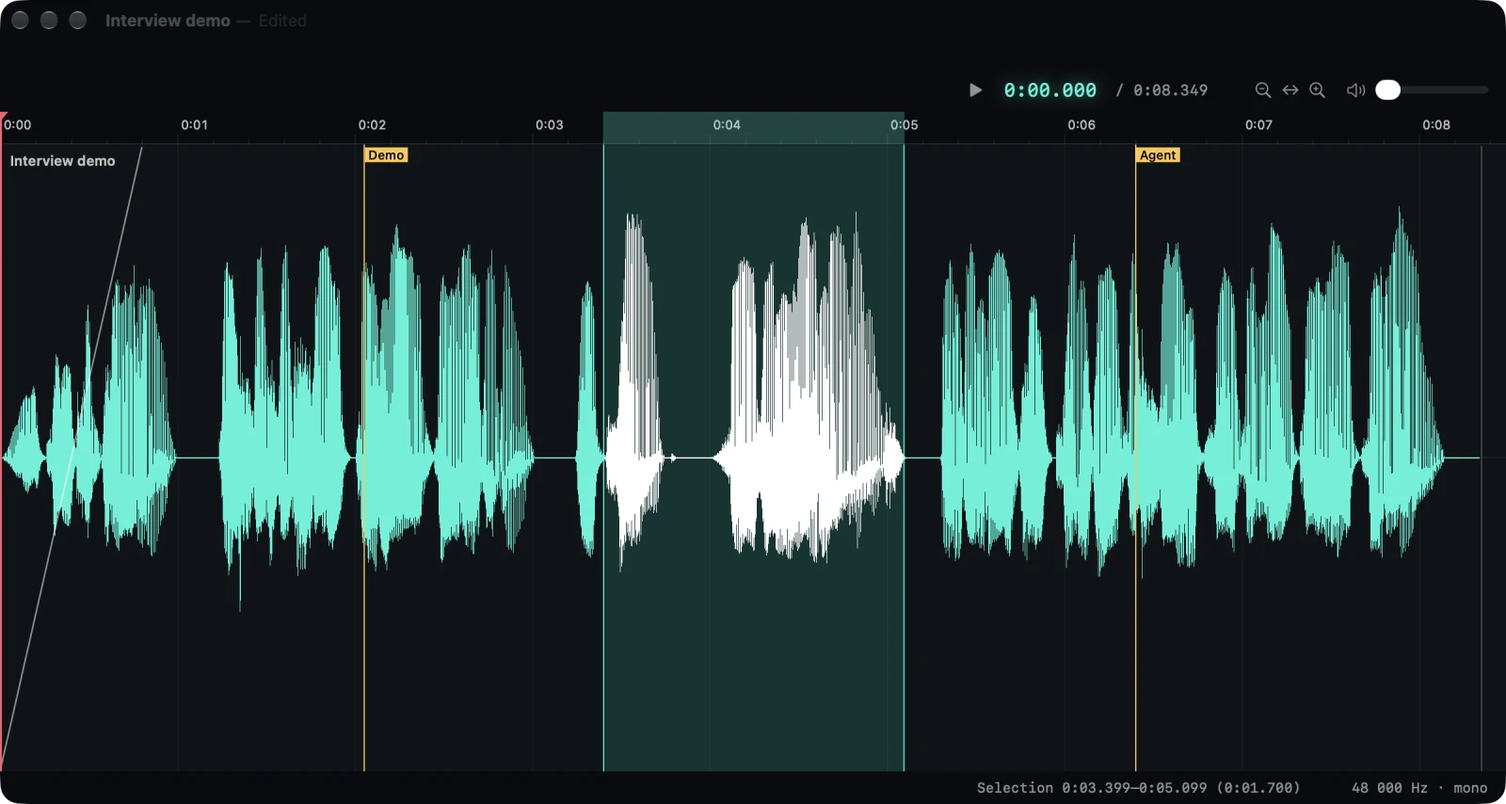
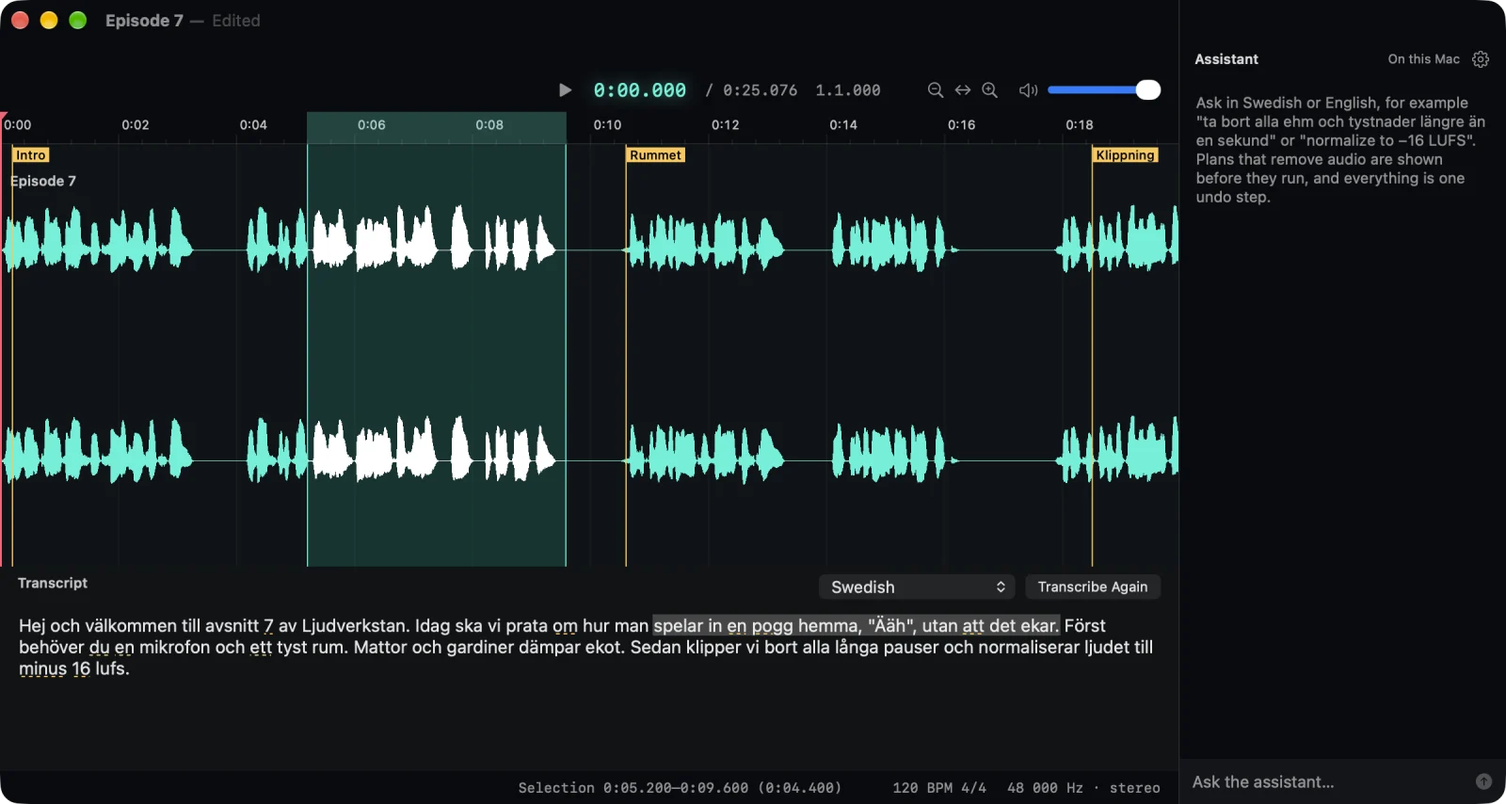
Site brought up to date; offline proof; fixes the screenshots exposed
Site: FAQ and app.json rewritten for what the app does now (twelve
features, models and sizes, offline, why no HTDemucs, VoiceOver), eleven
new screenshots placed in the manual, shortcut and settings chapters
corrected, noise reduction documented (it was still "planned").
scripts/winshot captures only Jämmer's windows with ScreenCaptureKit.
The site builds with --strict and no warnings.

Offline: scripts/no-network.sb runs the app in a sandbox that blocks
every connection off the Mac (JAMMER_WRAP in with-app.sh). Verified
there: cold start 2 s, open, edit, de-hum and DeepFilterNet, Apple,
KB-Whisper and Parakeet transcription, speaker model, export in all
seven formats, the on-device assistant's plan, the agent API. A model
download fails at once with a message that now says what to do; the
OpenRouter request times out after 30 s.

Fixes found on the way: Parakeet put a whole source's text into one
word (its tokens mark words with a leading space, not the SentencePiece
mark the test used), so words, speakers and deleting by word didn't
work with it; bleed words right at a turn's edge still showed in
multitrack transcripts; the export dialog said chapters were MP3-only
and now remembers the format; track names sat under marker flags;
restore jobs for noise reduction had no title; Settings no longer
prints the models folder (Show in Finder instead).

diff --git a/scripts/winshot/main.swift b/scripts/winshot/main.swift
@@ -1,0 +1,48 @@
+// Captures only one app's windows (ScreenCaptureKit), never the desktop, for site screenshots.
+//   winshot --pid P [--only "Title prefix"] out.png
+// Without --only: every on-screen window of the app, cropped to their union. With --only:
+// windows whose title starts with the prefix, plus untitled ones (sheets, popovers) that
+// overlap them.
+import AppKit
+import ScreenCaptureKit
+
+var pid: pid_t = 0, only: String?, out = ""
+var args = Array(CommandLine.arguments.dropFirst())
+while !args.isEmpty {
+    let a = args.removeFirst()
+    if a == "--pid" { pid = pid_t(args.removeFirst()) ?? 0 } else if a == "--only" { only = args.removeFirst() } else { out = a }
+}
+guard pid != 0, !out.isEmpty else { FileHandle.standardError.write(Data("usage: winshot --pid P [--only prefix] out.png\n".utf8)); exit(2) }
+
+let sem = DispatchSemaphore(value: 0)
+Task {
+    do {
+        let content = try await SCShareableContent.excludingDesktopWindows(false, onScreenWindowsOnly: true)
+        var windows = content.windows.filter { $0.owningApplication?.processID == pid && $0.windowLayer == 0 && $0.frame.width > 40 && $0.frame.height > 40 }
+        if let only {
+            let main = windows.filter { ($0.title ?? "").hasPrefix(only) }
+            let frame = main.reduce(CGRect.null) { $0.union($1.frame) }
+            windows = main + windows.filter { ($0.title ?? "").isEmpty && $0.frame.intersects(frame) }
+        }
+        guard !windows.isEmpty, let display = content.displays.first(where: { $0.frame.intersects(windows[0].frame) }) ?? content.displays.first else {
+            FileHandle.standardError.write(Data("winshot: no matching windows\n".utf8)); exit(1)
+        }
+        let union = windows.reduce(CGRect.null) { $0.union($1.frame) }.intersection(display.frame)
+        let filter = SCContentFilter(display: display, including: windows)
+        let config = SCStreamConfiguration()
+        let scale = CGFloat(filter.pointPixelScale)
+        config.sourceRect = CGRect(x: union.minX - display.frame.minX, y: union.minY - display.frame.minY, width: union.width, height: union.height)
+        config.width = Int(union.width * scale)
+        config.height = Int(union.height * scale)
+        config.showsCursor = false
+        config.backgroundColor = .clear
+        let image = try await SCScreenshotManager.captureImage(contentFilter: filter, configuration: config)
+        let rep = NSBitmapImageRep(cgImage: image)
+        try rep.representation(using: .png, properties: [:])!.write(to: URL(fileURLWithPath: out))
+        print("\(image.width)x\(image.height) \(windows.map { $0.title ?? "" })")
+    } catch {
+        FileHandle.standardError.write(Data("winshot: \(error.localizedDescription)\n".utf8)); exit(1)
+    }
+    sem.signal()
+}
+sem.wait()

diff --git a/App/SettingsWindow.swift b/App/SettingsWindow.swift
@@ -79,7 +79,7 @@ final class ModelsModel {
                 let id = row.id
                 try await row.install { p in Task { @MainActor in self.progress[id] = p } }
             } catch {
-                errors[row.id] = error.localizedDescription
+                errors[row.id] = "The download didn't finish (\(error.localizedDescription)). Check the network and try again; everything else in Jämmer works without one."
             }
             progress[row.id] = nil
             tick += 1
@@ -98,8 +98,15 @@ struct ModelsSettings: View {
     var body: some View {
         VStack(alignment: .leading, spacing: 14) {
             Text("Models").font(.title2.bold())
-            Text("Speech models run on this Mac. Each is downloaded once, from \(SpeechEngines.store.source.host() ?? "the model source"), into \(SpeechEngines.store.folder.path).")
-                .font(.callout).foregroundStyle(.secondary).fixedSize(horizontal: false, vertical: true)
+            HStack(alignment: .firstTextBaseline) {
+                Text("Speech models run on this Mac. Each is downloaded once, from \(SpeechEngines.store.source.host() ?? "the model source"), and can be removed again.")
+                    .font(.callout).foregroundStyle(.secondary).fixedSize(horizontal: false, vertical: true)
+                Spacer()
+                Button("Show in Finder") {
+                    try? FileManager.default.createDirectory(at: SpeechEngines.store.folder, withIntermediateDirectories: true)
+                    NSWorkspace.shared.activateFileViewerSelecting([SpeechEngines.store.folder])
+                }
+            }
             ForEach(model.rows) { row in
                 HStack(alignment: .top, spacing: 12) {
                     VStack(alignment: .leading, spacing: 3) {

diff --git a/Packages/JammerKit/Tests/JammerParakeetTests/ParakeetTests.swift b/Packages/JammerKit/Tests/JammerParakeetTests/ParakeetTests.swift
@@ -16,6 +16,9 @@ struct ParakeetWordTests {
                  TokenTiming(token: ".", tokenId: 5, startTime: 0.80, endTime: 0.82, confidence: 0.99)]
         let w = ParakeetEngine.words(t, sampleRate: 48_000)
         #expect(w.map(\.text) == ["Hej", "välkommen."])
+        // FluidAudio's tokens mark a new word with a leading space.
+        let spaced = t.map { TokenTiming(token: $0.token.replacingOccurrences(of: "▁", with: " "), tokenId: $0.tokenId, startTime: $0.startTime, endTime: $0.endTime, confidence: $0.confidence) }
+        #expect(ParakeetEngine.words(spaced, sampleRate: 48_000).map(\.text) == ["Hej", "välkommen."])
         #expect(w[1].start == 19_200 && w[1].end == 39_360)
         #expect(abs((w[1].confidence ?? 0) - (0.8 + 0.6 + 0.95 + 0.99) / 4) < 1e-6)
     }
@@ -68,6 +71,8 @@ struct ParakeetBenchmark {
             wall += Double(d.components.seconds) + Double(d.components.attoseconds) / 1e18
             audio += Double(info.frames) / info.sampleRate
             timingOK = timingOK && t.words.allSatisfy { $0.start <= $0.end && $0.end <= info.frames + 4_800 }
+            // One word per spoken word, not one per sentence (give or take a few misheard joins).
+            timingOK = timingOK && abs(t.words.count - s.split(separator: " ").count) <= 3
             let hyp = t.words.map(\.text).joined(separator: " ")
             let w = WordErrorRate.compute(reference: s, hypothesis: hyp)
             if w.errors > 0 { print("BENCH  \(voice) \(rate): \"\(s)\" → \"\(hyp)\"") }

diff --git a/App/EditorWindowController.swift b/App/EditorWindowController.swift
@@ -552,7 +552,12 @@ final class ExportChoices {
         var encoding: WAVWriter.Encoding { self == .wav16 ? .int16 : (self == .wavFloat ? .float32 : .int24) }
         var fileExtension: String { encoded?.format.fileExtension ?? "wav" }
     }
-    var choice: Choice = .wav24
+    /// The format is remembered between exports.
+    var choice: Choice = UserDefaults.standard.string(forKey: "export.format").flatMap(Choice.init(rawValue:)) ?? .wav24 {
+        didSet { UserDefaults.standard.set(choice.rawValue, forKey: "export.format") }
+    }
+    /// MP3 (ID3), AAC and ALAC (a chapter track) and Opus (comments) carry chapters.
+    var takesChapters: Bool { [.mp3, .aac, .alac24, .opus].contains(choice) }
     var chapters = true
     var chaptersJSON = false
     var encoding: WAVWriter.Encoding = .int24
@@ -578,7 +583,7 @@ struct ExportAccessory: View {
                 Text("Broadcast Wave metadata and markers are kept in WAV only.").font(.caption).foregroundStyle(.secondary)
             }
             Toggle("Selection only", isOn: $model.selectionOnly).disabled(!model.hasSelection)
-            Toggle("Chapters from markers (MP3)", isOn: $model.chapters).disabled(model.choice != .mp3)
+            Toggle("Chapters from markers (MP3, M4A, Opus)", isOn: $model.chapters).disabled(!model.takesChapters)
             Toggle("Also save chapters as JSON (Podcasting 2.0)", isOn: $model.chaptersJSON)
         }
         .padding(12)

diff --git a/App/TimelineView.swift b/App/TimelineView.swift
@@ -390,7 +390,8 @@ final class TimelineOverlay: NSView {
             }
             let nameAttrs: [NSAttributedString.Key: Any] = [.font: NSFont.systemFont(ofSize: 11, weight: .semibold),
                                                             .foregroundColor: Theme.text]
-            (track.name as NSString).draw(at: NSPoint(x: 8, y: y + 6), withAttributes: nameAttrs)
+            // Below the row where marker flags sit, so a marker near the start doesn't cover it.
+            (track.name as NSString).draw(at: NSPoint(x: 8, y: y + 22), withAttributes: nameAttrs)
             if session.peaks.isEmpty, !session.peakProgress.isEmpty, session.project.length > Frame(project.sampleRate * 600) {
                 let p = session.peakProgress.values.first ?? 0
                 ("Reading waveform… \(Int(p * 100)) %" as NSString).draw(at: NSPoint(x: 8, y: y + 24), withAttributes: nameAttrs)

diff --git a/Packages/JammerKit/Sources/JammerCore/Transcript.swift b/Packages/JammerKit/Sources/JammerCore/Transcript.swift
@@ -120,9 +120,11 @@ extension Project {
         guard tracks.count > 1, !speakerTurns.isEmpty else { return words }
         let turns = placedTurns()
         guard Set(turns.map(\.track)).count > 1 else { return words }
+        // The other tracks' turns count with 0.3 s to spare: bleed words sit right at their edges.
+        let margin = Frame(0.3 * sampleRate)
         func covered(_ w: PlacedWord, on sameTrack: Bool) -> Bool {
-            let mid = (w.start + w.end) / 2
-            return turns.contains { ($0.track == w.track) == sameTrack && $0.start <= mid && mid < $0.end }
+            let mid = (w.start + w.end) / 2, m = sameTrack ? 0 : margin
+            return turns.contains { ($0.track == w.track) == sameTrack && $0.start - m <= mid && mid < $0.end + m }
         }
         return words.filter { covered($0, on: true) || !covered($0, on: false) }
     }

diff --git a/Packages/JammerKit/Sources/JammerParakeet/ParakeetEngine.swift b/Packages/JammerKit/Sources/JammerParakeet/ParakeetEngine.swift
@@ -101,12 +101,14 @@ public final class ParakeetEngine: TranscriptionEngine, @unchecked Sendable {
             confs = []
         }
         for tok in tokens {
+            // A word starts at "▁" (SentencePiece) or a leading space (how FluidAudio hands tokens over).
             let piece = tok.token
-            if piece.hasPrefix("▁") || text.isEmpty {
+            let startsWord = piece.hasPrefix("▁") || piece.hasPrefix(" ")
+            if startsWord || text.isEmpty {
                 flush()
                 start = tok.startTime
             }
-            text += piece.replacingOccurrences(of: "▁", with: piece.hasPrefix("▁") && text.isEmpty ? "" : " ")
+            text += piece.replacingOccurrences(of: "▁", with: " ")
             end = tok.endTime
             confs.append(tok.confidence)
         }

diff --git a/App/AgentServer.swift b/App/AgentServer.swift
@@ -684,7 +684,7 @@ enum AgentRouter {
 
     // MARK: Restoration
 
-    static let restoreTitles: [Restoration.Kind: String] = [.dehum: "Remove Hum", .declip: "Repair Clipping", .declick: "Remove Clicks"]
+    static let restoreTitles: [Restoration.Kind: String] = [.dehum: "Remove Hum", .declip: "Repair Clipping", .declick: "Remove Clicks", .denoise: "Reduce Noise"]
 
     /// The range (explicit, else the selection, else everything) and the tracks (nil = all).
     private static func restoreScope(_ session: EditorSession, start: Double?, end: Double?, tracks: [UUID]?) throws -> (Range<Frame>, Set<UUID>?) {

diff --git a/Packages/JammerKit/Sources/JammerAssistant/Planners.swift b/Packages/JammerKit/Sources/JammerAssistant/Planners.swift
@@ -116,6 +116,7 @@ public struct OpenRouterPlanner: AssistantPlanner {
         if let reply = PlanParser.guardrail(goal) { return AssistantPlan(reply: reply, steps: []) }
         guard let key = key(), !key.isEmpty else { throw AssistantError.noKey }
         var req = URLRequest(url: endpoint.appending(path: "chat/completions"))
+        req.timeoutInterval = 30 // offline or stalled: an error in the panel, never a hang
         req.httpMethod = "POST"
         req.setValue("Bearer \(key)", forHTTPHeaderField: "Authorization")
         req.setValue("application/json", forHTTPHeaderField: "Content-Type")

diff --git a/site/faq.md b/site/faq.md
@@ -1,6 +1,6 @@
 ## What is Jämmer?
 
-A native macOS audio editor for speech, restoration and post-production. It's the audio sibling of Glimmer (images) and Flimmer (video). Version 0.1 is the foundation: non-destructive editing, loudness measurement and normalization, WAV/AIFF with their metadata, and a local API for AI agents.
+A native macOS audio editor for speech: podcasts, interviews, voice-overs and their clean-up. You edit by cutting the waveform or by deleting words in the transcript, repair hum, clicks, clipping and noise, find and level the speakers, set the loudness for the platform and export with chapters. It's the audio sibling of Glimmer (images) and Flimmer (video), and AI agents can drive it through a local API.
 
 ## What do I need to run it?
 
@@ -12,15 +12,27 @@ Yes. Jämmer is free and open source under the MIT licence. The source code will
 
 ## Does it cost anything to use the AI features?
 
-Nothing in Jämmer costs money today: everything runs on your Mac. If paid cloud features are added later, they will use your own OpenRouter key, and an agent can only use them when it explicitly allows paid steps.
+No, unless you choose to. Transcription, speaker finding, noise reduction and the built-in assistant all run on your Mac at no cost. The assistant can optionally use a cloud model through OpenRouter instead of the one on your Mac; that uses your own OpenRouter key (kept in the Keychain) and is billed by OpenRouter to you. An agent can only trigger paid steps when it explicitly allows them.
 
 ## What runs locally, and what leaves my Mac?
 
-Everything runs locally. Jämmer doesn't send your audio anywhere and doesn't need an account. The agent API listens only on your own Mac (127.0.0.1); other computers on your network can't reach it.
+Everything runs locally: editing, playback, loudness, restoration, transcription, speaker finding, export, and the assistant with the on-device model. Your audio is never sent anywhere and there's no account. Two things use the network, both only when you ask: downloading a speech model in Settings › Models (from Hugging Face, or a mirror you choose), and the assistant's optional OpenRouter model, which sends your request and a description of the document (not the audio) to OpenRouter. The agent API listens only on your own Mac (127.0.0.1); other computers can't reach it.
+
+## Does it work offline?
+
+Yes. Once the models you want are downloaded, Jämmer needs no network at all: it starts, opens, edits, repairs, transcribes, finds speakers, exports and answers agents on 127.0.0.1 with the network off. Without a network, downloading a model and the OpenRouter option say so instead of working; nothing else is affected. We test this by running Jämmer in a sandbox that blocks every connection off the Mac.
 
 ## Does Jämmer depend on a server?
 
-No. Jämmer doesn't rely on any service run by us. Future features that download models will fetch them from their original source, and you'll be able to point Jämmer at your own mirror.
+No. Jämmer doesn't rely on any service run by us. Models are fetched from their original source, and you can point Jämmer at your own mirror.
+
+## Which models does it use, and how big are they?
+
+Noise reduction (DeepFilterNet 3, 8 MB) ships inside the app. The rest are optional downloads under **Jämmer › Settings… › Models**, each shown with its size and licence before you download it, and removable there: KB-Whisper small (175 MB) or medium (539 MB) for the most accurate Swedish transcription, Parakeet TDT 0.6B v3 (about 630 MB) for 25 European languages, and the speaker model (about 20 MB). Without any download, transcription uses the Mac's own recogniser. The assistant uses the model built into macOS.
+
+## Why no HTDemucs stem separation?
+
+Because its weights aren't free to use. The Demucs code is MIT, but its author has said that the trained weights aren't covered by that licence and are for research only, and they were trained on a non-commercial dataset. Jämmer only ships and downloads models whose licence allows everyone to use them, so stem separation will come with models that do.
 
 ## Which files can I open?
 
@@ -28,11 +40,15 @@ WAV (including RF64 and BW64 for files over 4 GB), AIFF and AIFF-C are edited st
 
 ## Which files can I export?
 
-WAV at 16-bit, 24-bit or 32-bit float, with optional TPDF dither. More formats are planned.
+WAV (16-bit, 24-bit or 32-bit float, with optional dither, keeping Broadcast Wave data and markers), AIFF, FLAC, ALAC and AAC (.m4a), Ogg Opus and MP3. Markers become chapters in MP3, M4A and Opus, and can also be saved as a Podcasting 2.0 chapters file.
 
 ## Will Jämmer change my original files?
 
-No. Edits are stored in the project and played from the originals. Opening a WAV creates a new untitled project, so saving never overwrites the WAV.
+No. Edits are stored in the project and played from the originals; repairs and effects play from new files beside them. Opening a WAV creates a new untitled project, so saving never overwrites the WAV. The one exception is deliberate: a clip that Flimmer hands over to edit is saved back into that same file when you press ⌘S.
+
+## Can I use my plugins?
+
+Yes: Audio Unit effects (AUv2 and AUv3) can be put on any track. Plugins from developers other than Apple run in a process of their own, so one that crashes can't take Jämmer down.
 
 ## How do I let an AI agent use Jämmer?
 
@@ -40,7 +56,11 @@ When Jämmer starts, the splash shows a line under "For your agent". Click Copy 
 
 ## What can an agent do, and what can't it?
 
-It can open audio, read the document, measure loudness, look at the waveform, edit (every request is one undo step, and a request that fails changes nothing), and export. It can start playback only in a window you can see, and it can never start recording.
+It can do what the menus do: open audio, read the document and its transcript, measure loudness, edit, repair, transcribe, find and level speakers, add plugins, move through the history and export. Every request is one undo step, and a request that fails changes nothing. It can start playback only in a window you can see, it can't download models, and it can't open plugin windows.
+
+## Does it work with VoiceOver?
+
+Yes. Every control has a name, the timeline reads out the playhead, the selection and the drawn spectrogram area and moves with the VoiceOver increment and decrement gestures, and whatever can be drawn with the mouse (such as an area in the spectrogram) can also be typed in as numbers.
 
 ## Can I stop the splash from appearing?
 
@@ -48,4 +68,4 @@ Untick "Show at launch" on the splash. Help › Agent Access shows it again.
 
 ## How do I uninstall Jämmer?
 
-Quit Jämmer and move it to the Trash. To remove everything else, also delete `~/Library/Application Support/Jammer` (decoded audio), `~/Library/Caches/com.brattoo.jammer` (waveform caches) and `~/Library/Preferences/com.brattoo.jammer.plist`.
+Quit Jämmer and move it to the Trash. To remove everything else, also delete `~/Library/Application Support/Jammer` (decoded audio, repaired files and downloaded models), `~/Library/Caches/com.brattoo.jammer` (waveform caches) and `~/Library/Preferences/com.brattoo.jammer.plist`. If you saved an OpenRouter key, remove the "com.brattoo.jammer" item in Keychain Access.

diff --git a/site/agents.md b/site/agents.md
@@ -63,7 +63,7 @@ Opening a document answers `201 Created`. To send the audio inside JSON instead:
 | GET | `/api/v1/documents/{id}/transcript` | The transcript as it plays now: `{"words": [{"id", "text", "start", "end", "confidence", "speaker", "partial"}], "text", "speakers": [{"id", "name"}]}`, times in seconds on the timeline, optionally over `?start=&end=`. Empty until transcribed. |
 | GET | `/api/v1/documents/{id}/analysis/restoration` | Looks for problems without changing anything: mains hum (frequency, how prominent), clipping (runs, samples, level) and clicks, over `?start=&end=` and `?tracks=id,id` (default: the selection, else everything; all tracks). Long ranges are sampled. |
 | POST | `/api/v1/documents/{id}/restore/preview` | The repaired audio of a stretch (at most 30 s), without changing the document. Same body as `restore`, with `start` and `end`. Answers a 24-bit WAV; with `Accept: application/json` it answers `{"before": {…}, "after": {…}}` instead: the detector numbers plus `integratedLUFS` and `truePeakDBTP`. |
-| POST | `/api/v1/documents/{id}/restore` | Repairs audio (a job). Body: `{"kind": "dehum"\|"declip"\|"declick", "amount": 0–1, "start", "end", "tracks": [id], "humFrequency", "sensitivity"}`; only `kind` is required. The repaired clips play from new files; the originals are untouched and one undo step brings them back. |
+| POST | `/api/v1/documents/{id}/restore` | Repairs audio (a job). Body: `{"kind": "dehum"\|"declip"\|"declick"\|"denoise", "amount": 0–1, "start", "end", "tracks": [id], "humFrequency", "sensitivity"}`; only `kind` is required. The repaired clips play from new files; the originals are untouched and one undo step brings them back. |
 | POST | `/api/v1/documents/{id}/tracks` | Adds a track from audio sent like `POST /api/v1/documents` (bytes, base64 or upload; `?name=`). Answers `201` with `{"track": {"id", "name"}, "document"}`; one undo step. For double-enders, add each speaker's recording and the call recording, then run `align_tracks`. |
 | GET | `/api/v1/documents/{id}/tracks/{trackId}/drift?against=<trackId>` | How far two recorders' clocks part: `{"drift": {"ppm", "msPerHour", "confidence"}}`. Needs at least 90 s of overlap. |
 | GET | `/api/v1/documents/{id}/tracks` | The tracks with their ids, clips and plugins (`inserts`). |
@@ -139,7 +139,7 @@ A transcript is a view of the edit: it always reads what plays now. Each word ha
 
 ## Restoration
 
-Look, listen, then repair. `GET …/analysis/restoration` tells you whether there is hum, clipping or clicks. `POST …/restore/preview` with `Accept: application/json` gives the numbers before and after for a short stretch, so you can check that a repair helps (and that `amount` isn't too much) without listening. `POST …/restore` then runs it as a job. `dehum` finds 50 or 60 Hz by itself; pass `humFrequency` if it says `no_hum` and you know better. `amount` blends between the original (0) and the full repair (1). Use `tracks` to repair one speaker in a multitrack recording.
+Look, listen, then repair. `GET …/analysis/restoration` tells you whether there is hum, clipping or clicks. `POST …/restore/preview` with `Accept: application/json` gives the numbers before and after for a short stretch, so you can check that a repair helps (and that `amount` isn't too much) without listening. `POST …/restore` then runs it as a job. `dehum` finds 50 or 60 Hz by itself; pass `humFrequency` if it says `no_hum` and you know better. `denoise` reduces steady background noise with DeepFilterNet 3, on this Mac. `amount` blends between the original (0) and the full repair (1). Use `tracks` to repair one speaker in a multitrack recording.
 
 ## Speakers
 

diff --git a/site/manual/13-restoration.md b/site/manual/13-restoration.md
@@ -1,6 +1,8 @@
 # Restoration
 
-**Audio › Remove Hum…, Repair Clipping…, Remove Clicks…** (also in the command palette) open the Restore sheet. It works on the selection, or on the whole document when nothing is selected.
+![The Restore sheet on a recording with mains hum: it has found hum at 50 Hz and offers Preview, Original and Repaired](../screens/restore.webp)
+
+**Audio › Remove Hum…, Repair Clipping…, Remove Clicks…, Reduce Noise…** (also in the command palette) open the Restore sheet. It works on the selection, or on the whole document when nothing is selected.
 
 ## The repairs
 
@@ -9,6 +11,7 @@
 | **Remove Hum** | Finds mains hum at 50 or 60 Hz (to a few thousandths of a hertz) and removes it and its harmonics with narrow notch filters. Speech and music around it are left alone. Choose 50 or 60 Hz yourself if it doesn't find the hum. |
 | **Repair Clipping** | Finds samples flattened at the top of the range and rebuilds the wave from the audio around them. |
 | **Remove Clicks** | Finds short clicks and pops and fills them in from the surrounding audio. Raise the sensitivity to catch quieter clicks. |
+| **Reduce Noise** | Takes down steady background noise (hiss, fans, room tone) under speech with DeepFilterNet 3, a small model that ships with Jämmer and runs on your Mac. Amount sets how far the noise is lowered; start around half and listen. |
 
 When the sheet opens, Jämmer looks at the audio and tells you what it found, for example "Hum at 50.00 Hz · no clipping · 4 clicks".
 
@@ -20,9 +23,9 @@ When the sheet opens, Jämmer looks at the audio and tells you what it found, fo
 
 The repaired clips play from a new file that Jämmer writes in `~/Library/Application Support/Jammer/Media` (use **File › Collect Audio and Save** to move it into the project). Your original file is never changed, and one **Undo** brings back the unrepaired audio. Transcripts stay with the repaired clips. The status bar shows the progress; you can keep working meanwhile.
 
-Noise reduction with DeepFilterNet is planned.
-
 ## Drawing in the spectrogram
+
+![The spectrogram of speech with a phone ringing; a box is drawn round the two ring tones](../screens/spectrogram.webp)
 
 In the spectrogram (**View › Show Spectrogram**) you can mark a sound by where it is in time *and* pitch, and change only that. Pick a tool with **B** (box), **L** (lasso) or **P** (brush), then drag over the sound on its track; the area shows in turquoise and the status bar describes it ("Box, 1.42–1.59 s, 66–210 Hz"). Esc clears it.
 
